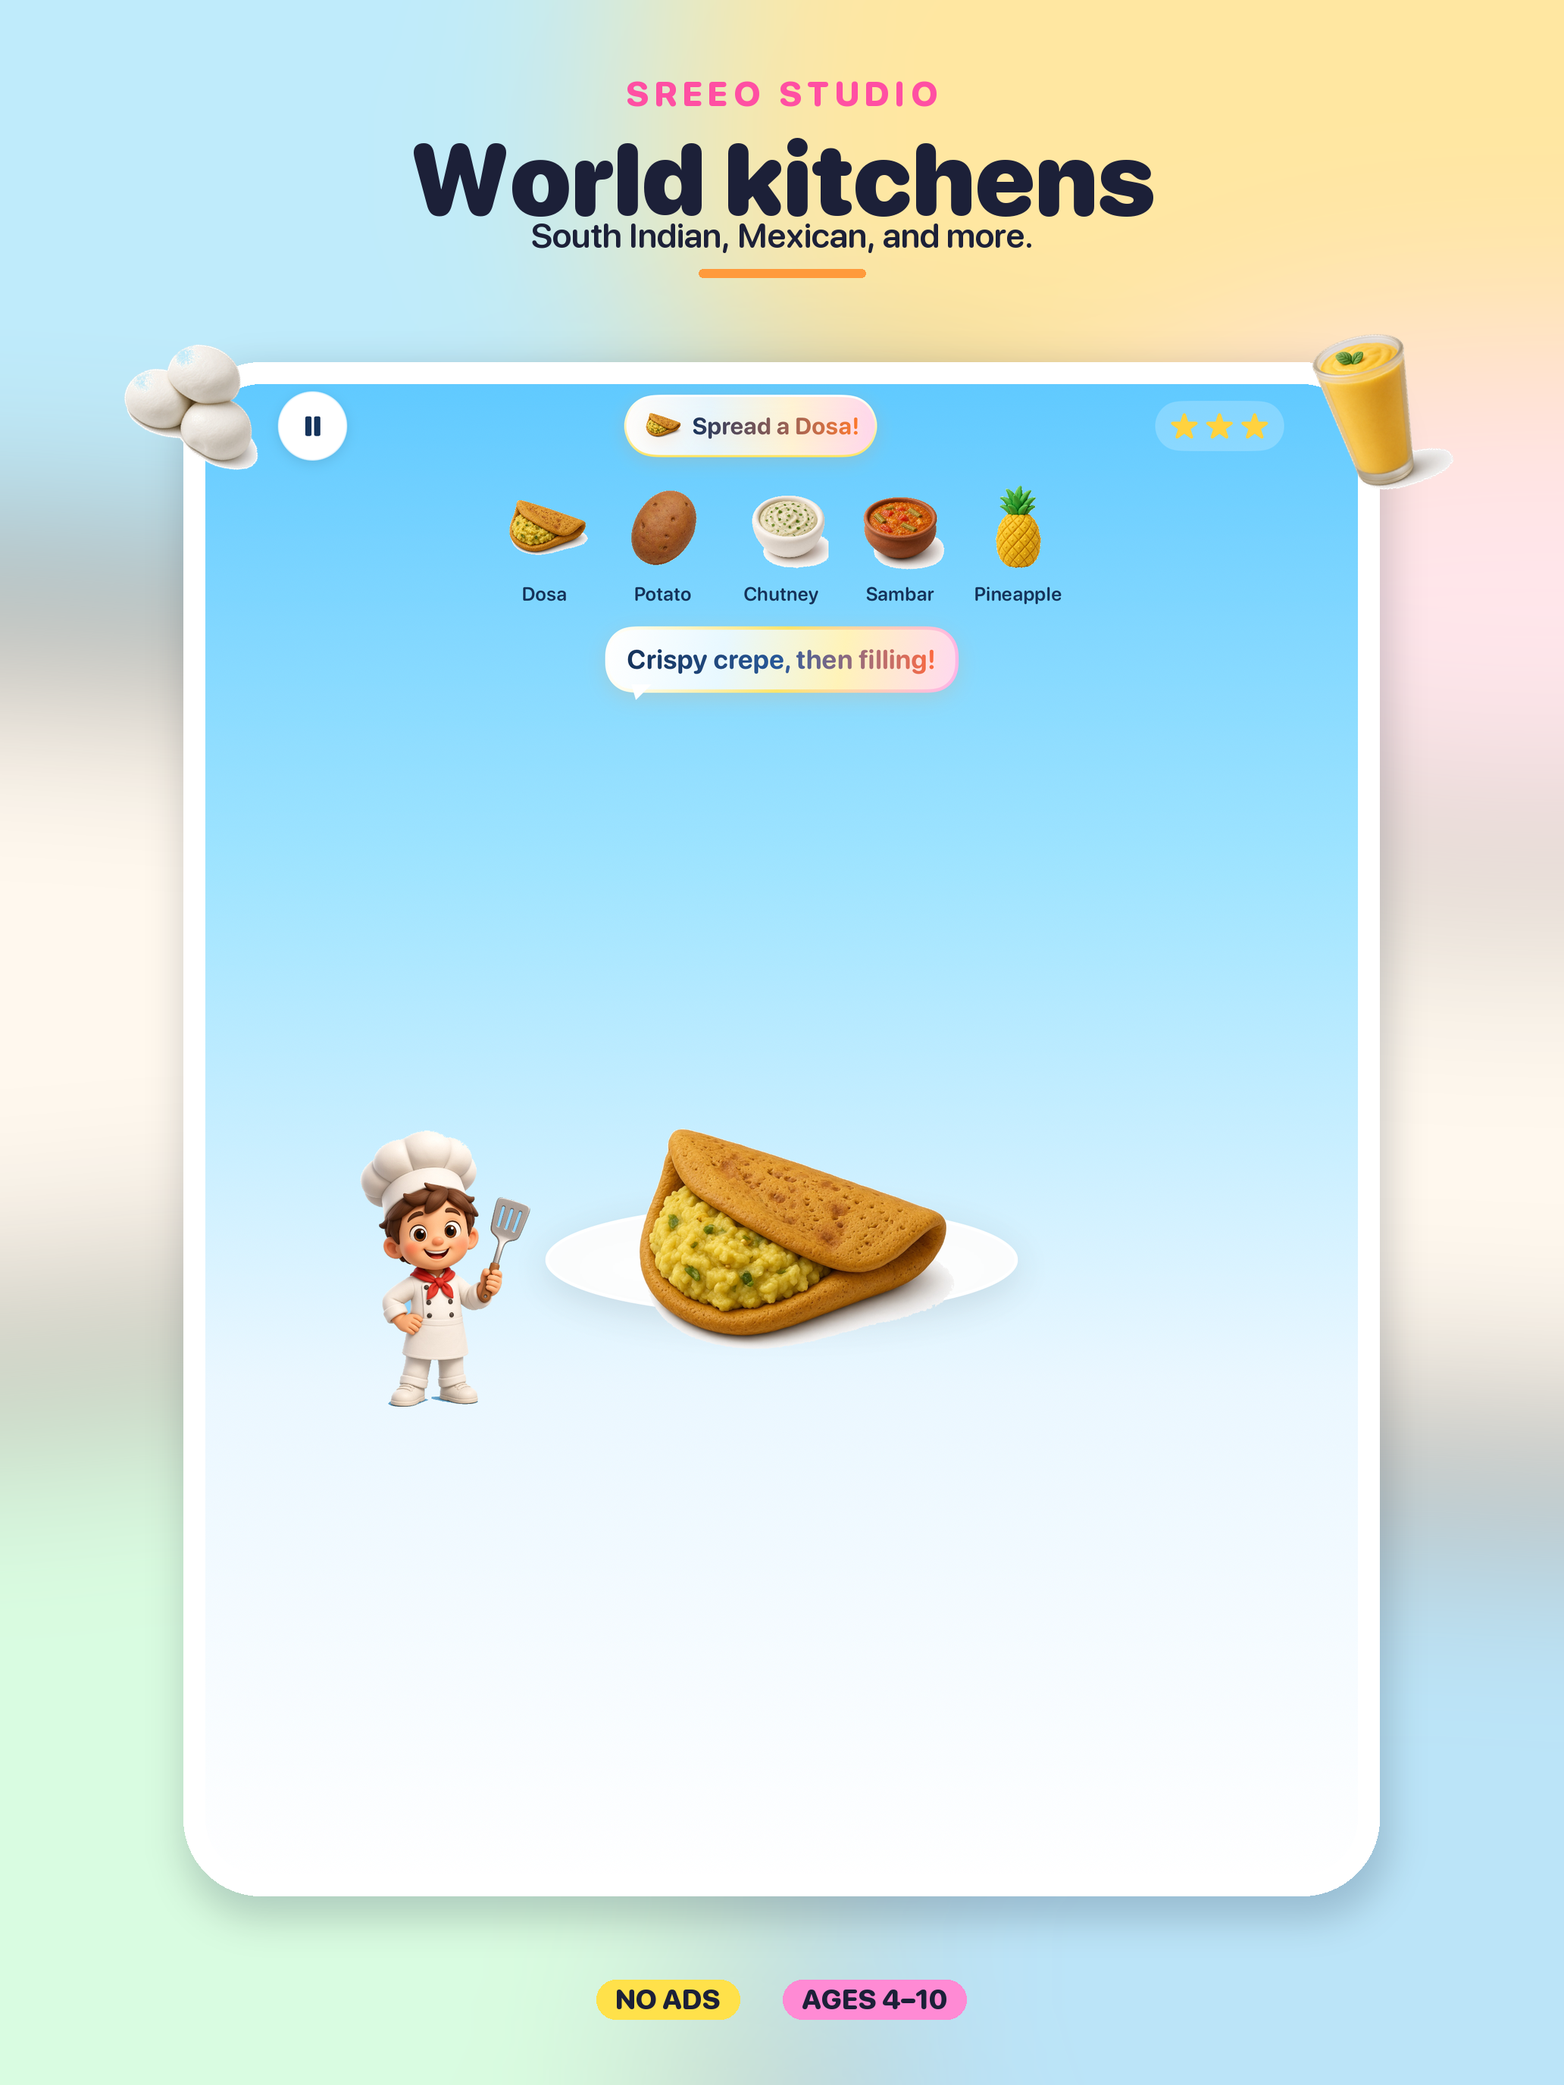
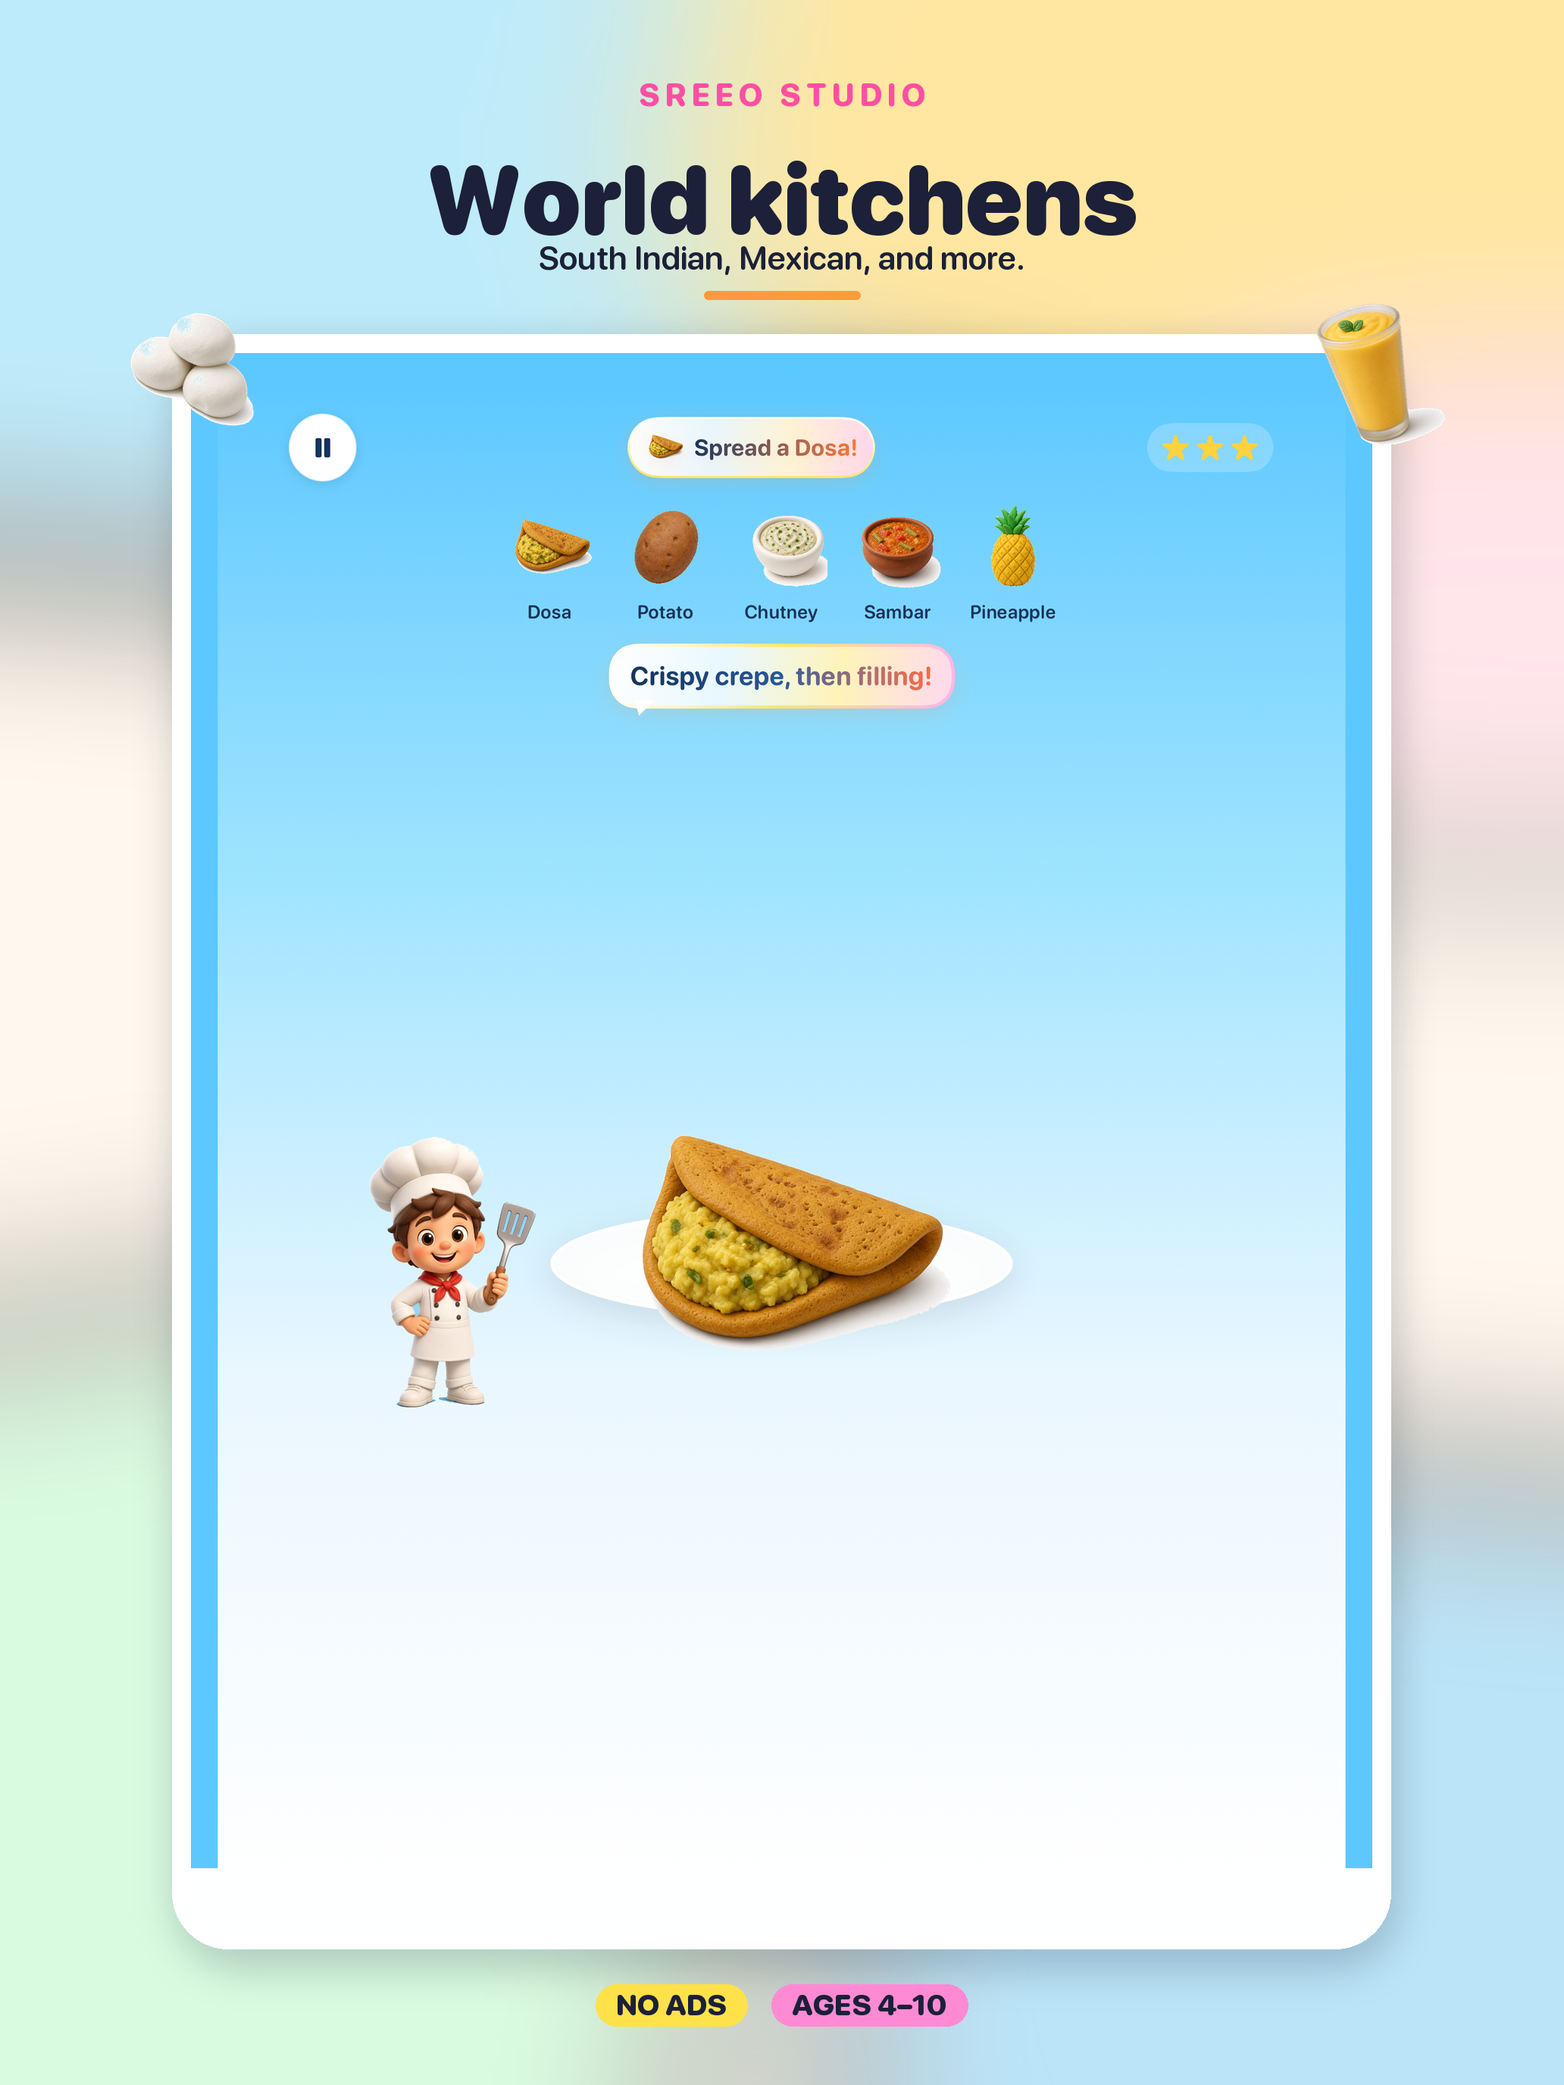
Line up iPhone and iPad App Store frames and keep iPad chrome clear of the corner art.

Changed region(s): [[0.062, 0.0312, 0.9302, 1.0], [0.4031, 0.5312, 0.6202, 0.6562], [0.2171, 0.5312, 0.3411, 0.6875]]

diff --git a/AppStore/compose_screenshots.py b/AppStore/compose_screenshots.py
@@ -1,10 +1,9 @@
 #!/usr/bin/env python3
-"""App Store frames that look like one studio set on iPhone and iPad.
+"""Sreeo-studio App Store frames for iPhone and iPad.
 
-Shared vertical rhythm (header band, device slot, badge band) so both sizes
-line up the way Monkey Mayhem does: SREEO STUDIO, title, orange bar, white
-device, food on the top corners, NO ADS / AGES pills. Real simulator UI is
-never replaced.
+Both sizes share one poster: pink kicker, navy title, orange dash,
+white device, food on the top corners, NO ADS / AGES pills. iPad uses
+the same rhythm as iPhone — only the device shape changes.
 """
 
 from __future__ import annotations
@@ -34,7 +33,7 @@ ORANGE = (255, 154, 60)
 CREAM = (255, 248, 238)
 YELLOW = (255, 225, 74)
 BADGE_PINK = (255, 138, 212)
-SUB_INK = (28, 32, 56, 168)
+SUBTLE = (28, 32, 56, 168)
 
 
 @dataclass
@@ -57,7 +56,7 @@ SLIDES = [
 
 
 def font(size: int, weight: str = "Black") -> ImageFont.FreeTypeFont:
-    size = max(10, int(size))
+    size = max(12, int(size))
     if os.path.exists(FONT_ROUNDED):
         face = ImageFont.truetype(FONT_ROUNDED, size)
         try:
@@ -105,15 +104,35 @@ def load_art(name: str, box: int, angle: float = 0) -> Image.Image | None:
 
 
 def prep_screen(im: Image.Image, iphone: bool) -> Image.Image:
-    """Trim island / home indicator so the white bezel stays clean."""
+    """Keep the full UI. Only shave the iPhone island / home indicator."""
     w, h = im.size
     if iphone:
         top = int(h * 0.048)
-        bottom = h - int(h * 0.014)
+        bottom = h - int(h * 0.006)
     else:
-        top = int(h * 0.018)
-        bottom = h - int(h * 0.012)
+        top = 0
+        bottom = h - int(h * 0.010)
     return im.crop((0, top, w, max(top + 10, bottom))).convert("RGBA")
+
+
+def pad_screen(im: Image.Image, pad: int, extra_bottom: int = 0) -> Image.Image:
+    """Push chrome off the device corner radius so buttons stay whole."""
+    if pad <= 0 and extra_bottom <= 0:
+        return im
+    def rgba(px: tuple) -> tuple[int, int, int, int]:
+        return px if len(px) == 4 else px + (255,)
+
+    sky = rgba(im.getpixel((im.width // 2, min(12, im.height - 1))))
+    # Corners, not the center — the center is often PLAY / NEXT.
+    corner = rgba(im.getpixel((min(16, im.width - 1), max(0, im.height - 16))))
+    out = Image.new("RGBA", (im.width + pad * 2, im.height + pad * 2 + extra_bottom), sky)
+    if extra_bottom:
+        ImageDraw.Draw(out).rectangle(
+            (0, im.height + pad, out.width, out.height),
+            fill=corner,
+        )
+    out.paste(im, (pad, pad), im)
+    return out
 
 
 def studio_canvas(size: tuple[int, int]) -> Image.Image:
@@ -121,12 +140,12 @@ def studio_canvas(size: tuple[int, int]) -> Image.Image:
     base = Image.new("RGBA", size, CREAM)
     blobs = Image.new("RGBA", size, (0, 0, 0, 0))
     d = ImageDraw.Draw(blobs)
-    d.ellipse((-int(w * 0.30), -int(h * 0.10), int(w * 0.64), int(h * 0.30)), fill=(168, 230, 255, 188))
-    d.ellipse((int(w * 0.40), -int(h * 0.12), int(w * 1.24), int(h * 0.28)), fill=(255, 226, 140, 200))
-    d.ellipse((-int(w * 0.22), int(h * 0.64), int(w * 0.50), int(h * 1.14)), fill=(186, 255, 214, 140))
-    d.ellipse((int(w * 0.50), int(h * 0.70), int(w * 1.26), int(h * 1.16)), fill=(140, 214, 255, 150))
-    d.ellipse((int(w * 0.68), int(h * 0.18), int(w * 1.20), int(h * 0.42)), fill=(255, 196, 230, 88))
-    blobs = blobs.filter(ImageFilter.GaussianBlur(int(min(w, h) * 0.07)))
+    d.ellipse((-int(w * 0.28), -int(h * 0.08), int(w * 0.62), int(h * 0.28)), fill=(168, 230, 255, 190))
+    d.ellipse((int(w * 0.42), -int(h * 0.10), int(w * 1.22), int(h * 0.26)), fill=(255, 226, 140, 200))
+    d.ellipse((-int(w * 0.20), int(h * 0.62), int(w * 0.48), int(h * 1.12)), fill=(186, 255, 214, 140))
+    d.ellipse((int(w * 0.52), int(h * 0.70), int(w * 1.24), int(h * 1.16)), fill=(140, 214, 255, 150))
+    d.ellipse((int(w * 0.70), int(h * 0.18), int(w * 1.18), int(h * 0.42)), fill=(255, 196, 230, 90))
+    blobs = blobs.filter(ImageFilter.GaussianBlur(int(w * 0.055)))
     return Image.alpha_composite(base, blobs)
 
 
@@ -135,7 +154,7 @@ def text_size(fnt: ImageFont.FreeTypeFont, text: str) -> tuple[int, int]:
     return bbox[2] - bbox[0], bbox[3] - bbox[1]
 
 
-def fit_font(text: str, target: int, max_width: int, weight: str = "Black") -> ImageFont.FreeTypeFont:
+def fit_font(text: str, target: int, max_width: int, weight: str) -> ImageFont.FreeTypeFont:
     size = target
     while size > 18:
         face = font(size, weight)
@@ -155,12 +174,20 @@ def draw_tracked(draw: ImageDraw.ImageDraw, text: str, y: int, fnt: ImageFont.Fr
     return text_size(fnt, "Ag")[1]
 
 
-def wrap_lines(text: str, fnt: ImageFont.FreeTypeFont, max_width: int) -> list[str]:
+def center_text(draw: ImageDraw.ImageDraw, text: str, y: int, fnt: ImageFont.FreeTypeFont, fill, canvas_w: int) -> int:
+    tw, th = text_size(fnt, text)
+    draw.text(((canvas_w - tw) / 2, y), text, font=fnt, fill=fill)
+    return th
+
+
+def wrap_subtitle(text: str, fnt: ImageFont.FreeTypeFont, max_width: int) -> list[str]:
+    if text_size(fnt, text)[0] <= max_width:
+        return [text]
     words = text.split()
     lines: list[str] = []
     current = ""
     for word in words:
-        trial = f"{current} {word}".strip()
+        trial = word if not current else f"{current} {word}"
         if text_size(fnt, trial)[0] <= max_width:
             current = trial
         else:
@@ -169,30 +196,19 @@ def wrap_lines(text: str, fnt: ImageFont.FreeTypeFont, max_width: int) -> list[s
             current = word
     if current:
         lines.append(current)
-    return lines or [text]
+    return lines[:2]
 
 
-def draw_wrapped(draw: ImageDraw.ImageDraw, text: str, y: int, fnt: ImageFont.FreeTypeFont, fill, canvas_w: int, max_width: int) -> int:
-    lines = wrap_lines(text, fnt, max_width)
-    line_h = text_size(fnt, "Ag")[1]
-    gap = max(6, int(line_h * 0.22))
-    for i, line in enumerate(lines):
-        tw, _ = text_size(fnt, line)
-        draw.text(((canvas_w - tw) / 2, y), line, font=fnt, fill=fill)
-        y += line_h + (gap if i < len(lines) - 1 else 0)
-    return y
-
-
-def pill(canvas: Image.Image, text: str, fill: tuple[int, int, int], cx: int, cy: int, fnt: ImageFont.FreeTypeFont) -> tuple[int, int]:
+def pill(canvas: Image.Image, text: str, fill: tuple[int, int, int], cx: int, cy: int, fnt: ImageFont.FreeTypeFont) -> int:
     draw = ImageDraw.Draw(canvas)
-    tw, th = text_size(fnt, text)
+    bbox = draw.textbbox((0, 0), text, font=fnt)
+    tw, th = bbox[2] - bbox[0], bbox[3] - bbox[1]
     pad_x, pad_y = int(fnt.size * 0.70), int(fnt.size * 0.36)
-    w, h = tw + pad_x * 2, th + pad_y * 2
-    x0, y0 = int(cx - w / 2), int(cy - h / 2)
-    draw.rounded_rectangle((x0, y0, x0 + w, y0 + h), radius=h // 2, fill=fill)
-    bbox = fnt.getbbox(text)
-    draw.text((x0 + pad_x - bbox[0], y0 + pad_y - bbox[1]), text, font=fnt, fill=NAVY)
-    return w, h
+    pw, ph = tw + pad_x * 2, th + pad_y * 2
+    x0, y0 = int(cx - pw / 2), int(cy - ph / 2)
+    draw.rounded_rectangle((x0, y0, x0 + pw, y0 + ph), radius=ph // 2, fill=fill)
+    draw.text((x0 + pad_x, y0 + pad_y - bbox[1]), text, font=fnt, fill=NAVY)
+    return pw
 
 
 def device_frame(screen: Image.Image, max_w: int, max_h: int, iphone: bool) -> Image.Image:
@@ -204,7 +220,8 @@ def device_frame(screen: Image.Image, max_w: int, max_h: int, iphone: bool) -> I
     sw = max(1, int(screen.width * scale))
     sh = max(1, int(screen.height * scale))
     screen = screen.resize((sw, sh), Image.Resampling.LANCZOS)
-    radius = int(min(sw, sh) * (0.105 if iphone else 0.048))
+    # Phones are squircles. iPads have gentler corners so grid rows stay visible.
+    radius = int(min(sw, sh) * (0.088 if iphone else 0.032))
     screen = rounded(screen, radius)
 
     fw, fh = sw + bezel * 2, sh + bezel * 2
@@ -223,85 +240,71 @@ def compose(slide: Slide, source: Path, size: tuple[int, int], dest: Path, iphon
     canvas = studio_canvas(size)
     draw = ImageDraw.Draw(canvas)
 
-    # Same bands on both devices so the App Store pair lines up.
-    header_bottom = int(h * 0.168)
-    footer_top = int(h * 0.918)
-    text_width = int(w * 0.86)
+    # Shared vertical rhythm so iPhone and iPad posters match.
+    kicker_f = font(h * 0.0155, "Heavy")
+    title_f = fit_font(slide.title, int(h * 0.046), int(w * 0.86), "Black")
+    sub_f = font(h * 0.0162, "Semibold")
+    badge_f = font(h * 0.0144, "Heavy")
 
-    kicker_f = font(max(20, int(h * 0.017)), "Heavy")
-    title_target = max(54, int(h * (0.042 if iphone else 0.048)))
-    title_f = fit_font(slide.title, title_target, text_width, "Black")
-    sub_f = font(max(18, int(h * (0.0155 if iphone else 0.0168))), "Semibold")
-    badge_f = font(max(16, int(h * 0.0138)), "Heavy")
-
-    kicker_h = text_size(kicker_f, "SREEO STUDIO")[1]
-    title_h = text_size(title_f, slide.title)[1]
-    sub_lines = wrap_lines(slide.subtitle, sub_f, text_width)
-    sub_h = text_size(sub_f, "Ag")[1]
-    sub_gap = max(6, int(sub_h * 0.22))
-    sub_block = len(sub_lines) * sub_h + max(0, len(sub_lines) - 1) * sub_gap
-    bar_h = max(7, int(h * 0.0042))
-    stack_gap = int(h * 0.010)
-    stack_h = kicker_h + stack_gap + title_h + int(h * 0.008) + sub_block + int(h * 0.012) + bar_h
-    y = max(int(h * 0.028), (header_bottom - stack_h) // 2)
-
-    draw_tracked(draw, "SREEO STUDIO", y, kicker_f, PINK, w, tracking=max(2.4, w * 0.0036))
-    y += kicker_h + stack_gap
-    tw, _ = text_size(title_f, slide.title)
-    draw.text(((w - tw) / 2, y), slide.title, font=title_f, fill=NAVY)
-    y += title_h + int(h * 0.008)
-    y = draw_wrapped(draw, slide.subtitle, y, sub_f, SUB_INK, w, text_width)
-    y += int(h * 0.012)
-    bar_w = int(min(w * 0.12, 220))
+    y = int(h * 0.036)
+    draw_tracked(draw, "SREEO STUDIO", y, kicker_f, PINK, w, tracking=max(3.0, w * 0.0034))
+    y += int(h * 0.032)
+    y += center_text(draw, slide.title, y, title_f, NAVY, w) + int(h * 0.010)
+    for line in wrap_subtitle(slide.subtitle, sub_f, int(w * 0.82)):
+        y += center_text(draw, line, y, sub_f, SUBTLE, w) + int(h * 0.004)
+    y += int(h * 0.008)
+    bar_w, bar_h = int(w * (0.13 if iphone else 0.10)), max(8, int(h * 0.0042))
     draw.rounded_rectangle(
         ((w - bar_w) / 2, y, (w + bar_w) / 2, y + bar_h),
         radius=bar_h // 2,
         fill=ORANGE,
     )
+    header_bottom = y + bar_h + int(h * 0.016)
+    footer_top = int(h * (0.924 if iphone else 0.936))
+    badge_y = int(h * 0.962)
 
-    slot_top = header_bottom + int(h * 0.006)
-    slot_bottom = footer_top - int(h * 0.008)
-    max_w = int(w * (0.86 if iphone else 0.88))
-    max_h = max(40, slot_bottom - slot_top)
+    max_w = int(w * (0.84 if iphone else 0.78))
+    max_h = max(200, footer_top - header_bottom)
     screen = prep_screen(Image.open(source), iphone=iphone)
+    inset = int(min(screen.size) * (0.016 if iphone else 0.024))
+    extra_frac = 0.058 if iphone else 0.024
+    if slide.source == "06-result" and iphone:
+        extra_frac = 0.12
+    extra_bottom = int(screen.height * extra_frac)
+    screen = pad_screen(screen, inset, extra_bottom=extra_bottom)
     phone = device_frame(screen, max_w, max_h, iphone=iphone)
 
     px = (w - phone.width) // 2
-    # Pin the device under the header. Leftover space stays above the pills.
-    py = slot_top + max(0, min(int(h * 0.008), (max_h - phone.height) // 6))
+    py = header_bottom + max(0, (max_h - phone.height) // 2)
 
     shadow = Image.new("RGBA", canvas.size, (0, 0, 0, 0))
-    radius = int(min(phone.width, phone.height) * (0.12 if iphone else 0.06))
+    corner = int(min(phone.width, phone.height) * (0.12 if iphone else 0.05))
     ImageDraw.Draw(shadow).rounded_rectangle(
         (px + 8, py + 18, px + phone.width + 4, py + phone.height + 22),
-        radius=radius,
-        fill=(40, 64, 96, 64),
+        radius=corner,
+        fill=(40, 64, 96, 62),
     )
     canvas.alpha_composite(shadow.filter(ImageFilter.GaussianBlur(26)))
     canvas.alpha_composite(phone, (px, py))
 
-    # Same corner anchors on both sizes. iPad art is a bit smaller so it
-    # sits on the bezel instead of covering the in-app chrome.
-    art_box = int(phone.width * (0.22 if iphone else 0.155))
-    left = load_art(slide.art[0], art_box, angle=-18) if slide.art else None
+    # Food sits on the white bezel corners, not on pause / settings / stars.
+    art_box = int(phone.width * (0.24 if iphone else 0.138))
+    left = load_art(slide.art[0], art_box, angle=-16) if slide.art else None
     right = load_art(slide.art[1], art_box, angle=14) if len(slide.art) > 1 else None
     if left:
-        lx = max(-int(left.width * 0.08), px - int(left.width * 0.46))
-        ly = py - int(left.height * 0.34)
-        canvas.alpha_composite(left, (lx, ly))
+        lx = px - int(left.width * (0.34 if iphone else 0.40))
+        ly = py - int(left.height * (0.32 if iphone else 0.36))
+        canvas.alpha_composite(left, (max(int(w * 0.016), lx), ly))
     if right:
-        rx = min(w - int(right.width * 0.92), px + phone.width - int(right.width * 0.54))
-        ry = py - int(right.height * 0.28)
-        canvas.alpha_composite(right, (rx, ry))
+        rx = px + phone.width - int(right.width * (0.66 if iphone else 0.60))
+        ry = py - int(right.height * (0.26 if iphone else 0.30))
+        canvas.alpha_composite(right, (min(w - right.width - int(w * 0.016), rx), ry))
 
-    badge_y = int((footer_top + h) / 2)
-
-    def pill_width(label: str) -> int:
-        tw, _ = text_size(badge_f, label)
-        return tw + int(badge_f.size * 0.70) * 2
-
-    w1, w2 = pill_width("NO ADS"), pill_width("AGES 4–10")
-    gap = int(w * 0.028)
+    tmp = Image.new("RGBA", (1, 1))
+    td = ImageDraw.Draw(tmp)
+    w1 = td.textbbox((0, 0), "NO ADS", font=badge_f)[2] + int(badge_f.size * 1.40)
+    w2 = td.textbbox((0, 0), "AGES 4–10", font=badge_f)[2] + int(badge_f.size * 1.40)
+    gap = int(h * 0.012)
     pair = w1 + gap + w2
     x1 = w // 2 - pair // 2 + w1 // 2
     x2 = x1 + w1 // 2 + gap + w2 // 2
@@ -310,7 +313,7 @@ def compose(slide: Slide, source: Path, size: tuple[int, int], dest: Path, iphon
 
     dest.parent.mkdir(parents=True, exist_ok=True)
     canvas.convert("RGB").save(dest, "PNG", optimize=True)
-    print(f"wrote {dest.parent.name}/{dest.name} device={phone.size} origin=({px},{py})")
+    print(f"wrote {dest.parent.name}/{dest.name} device={phone.size} at=({px},{py})")
 
 
 def run_folder(raw: Path, out: Path, size: tuple[int, int], iphone: bool) -> None:
